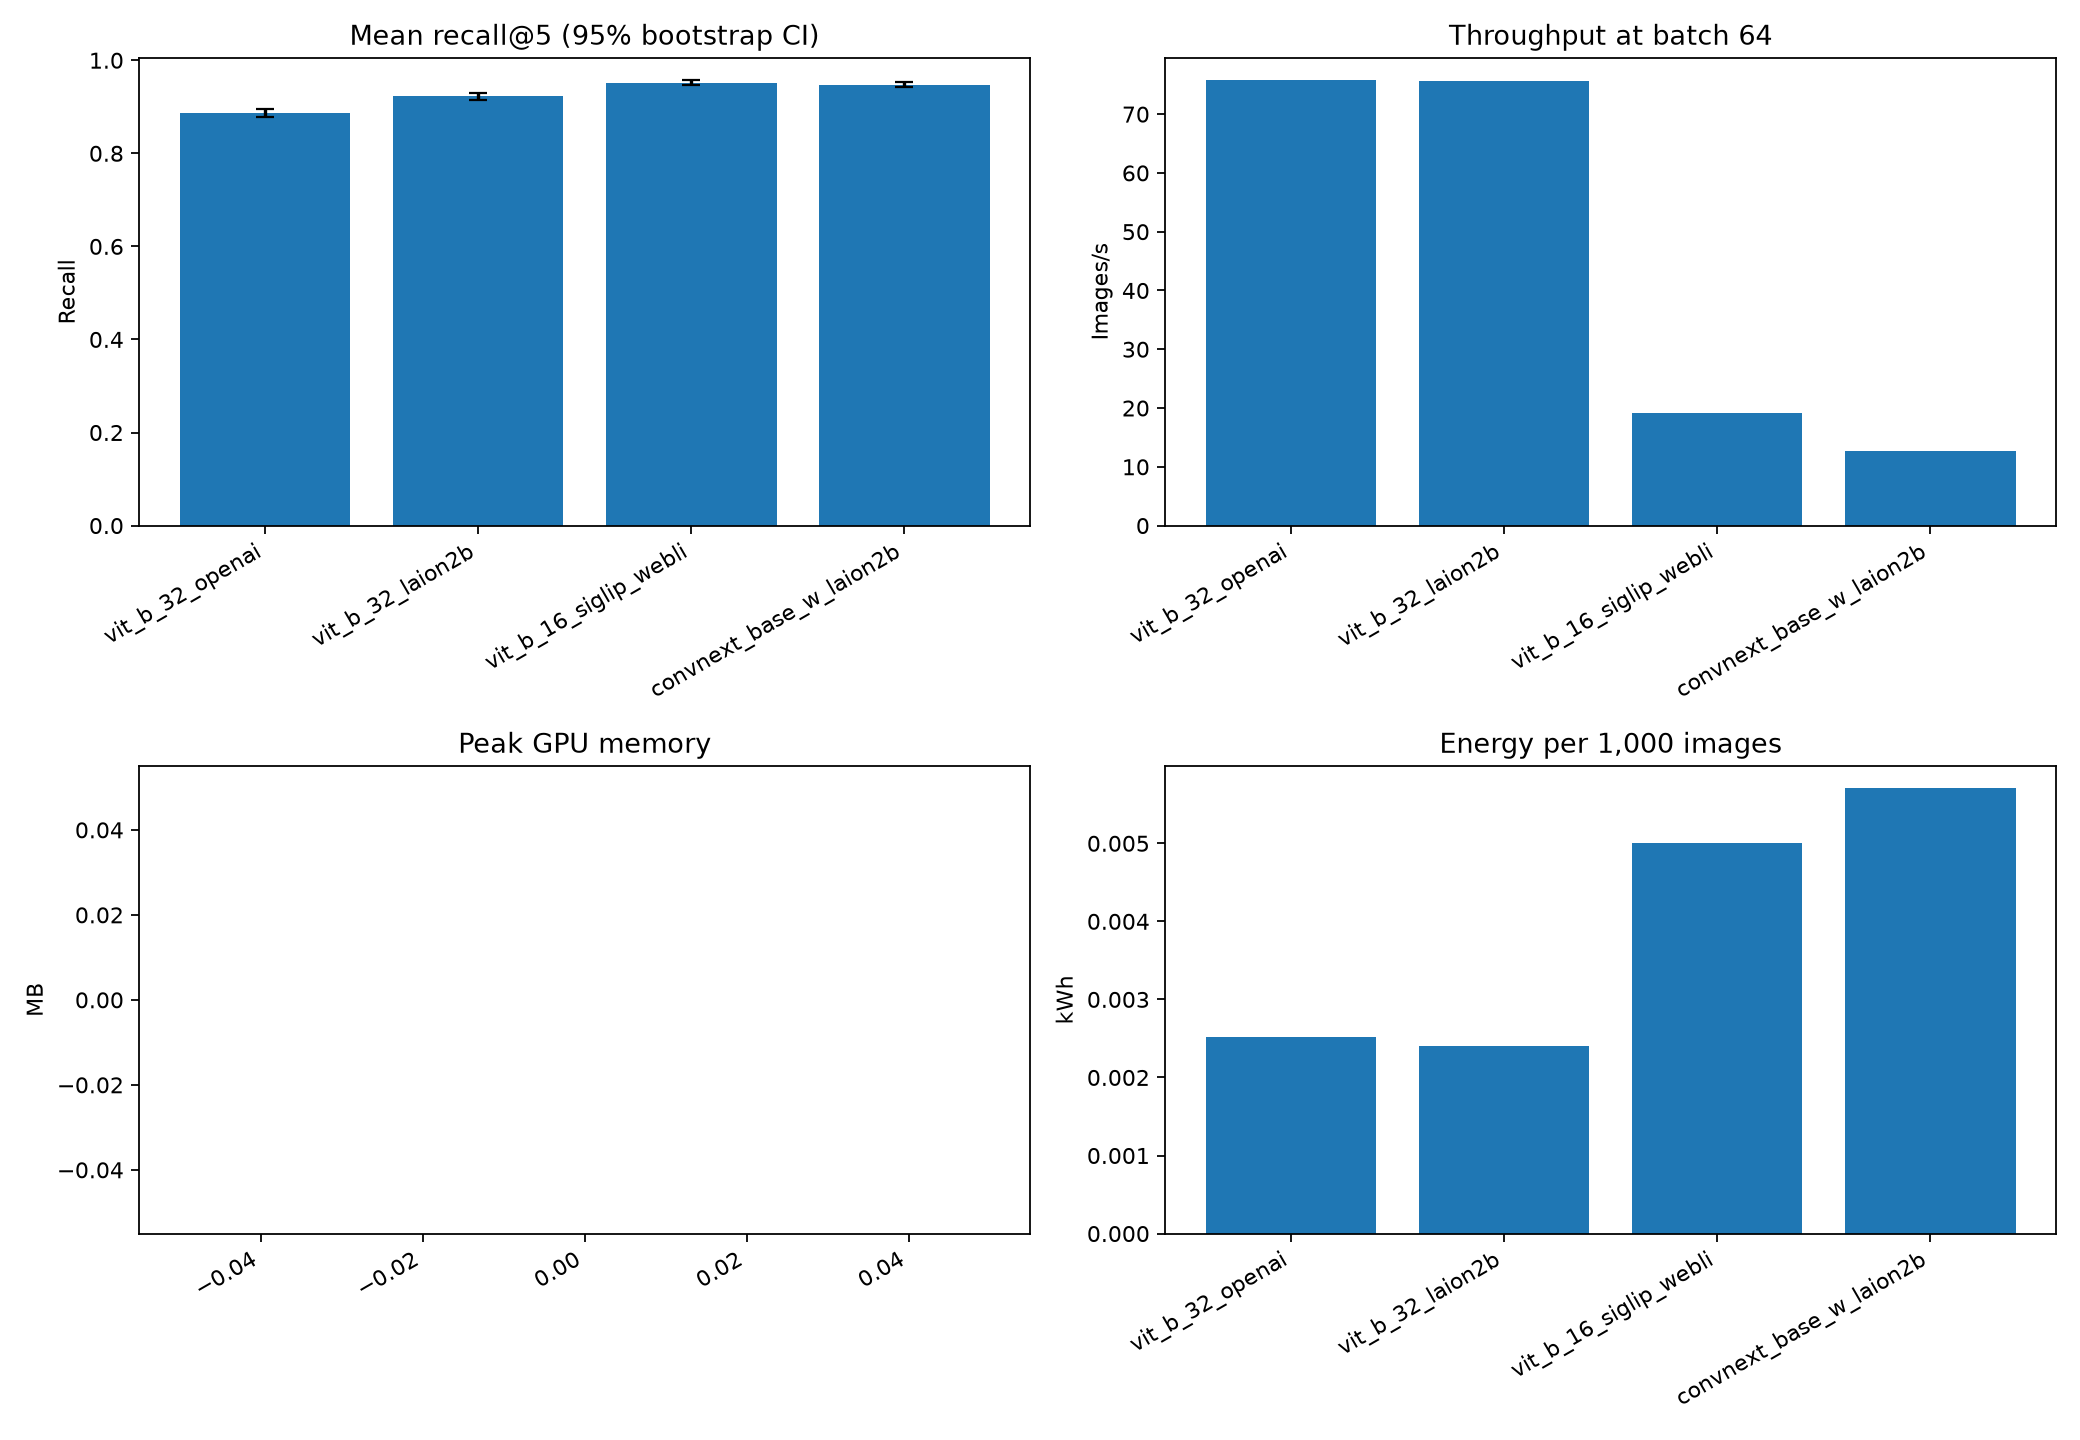
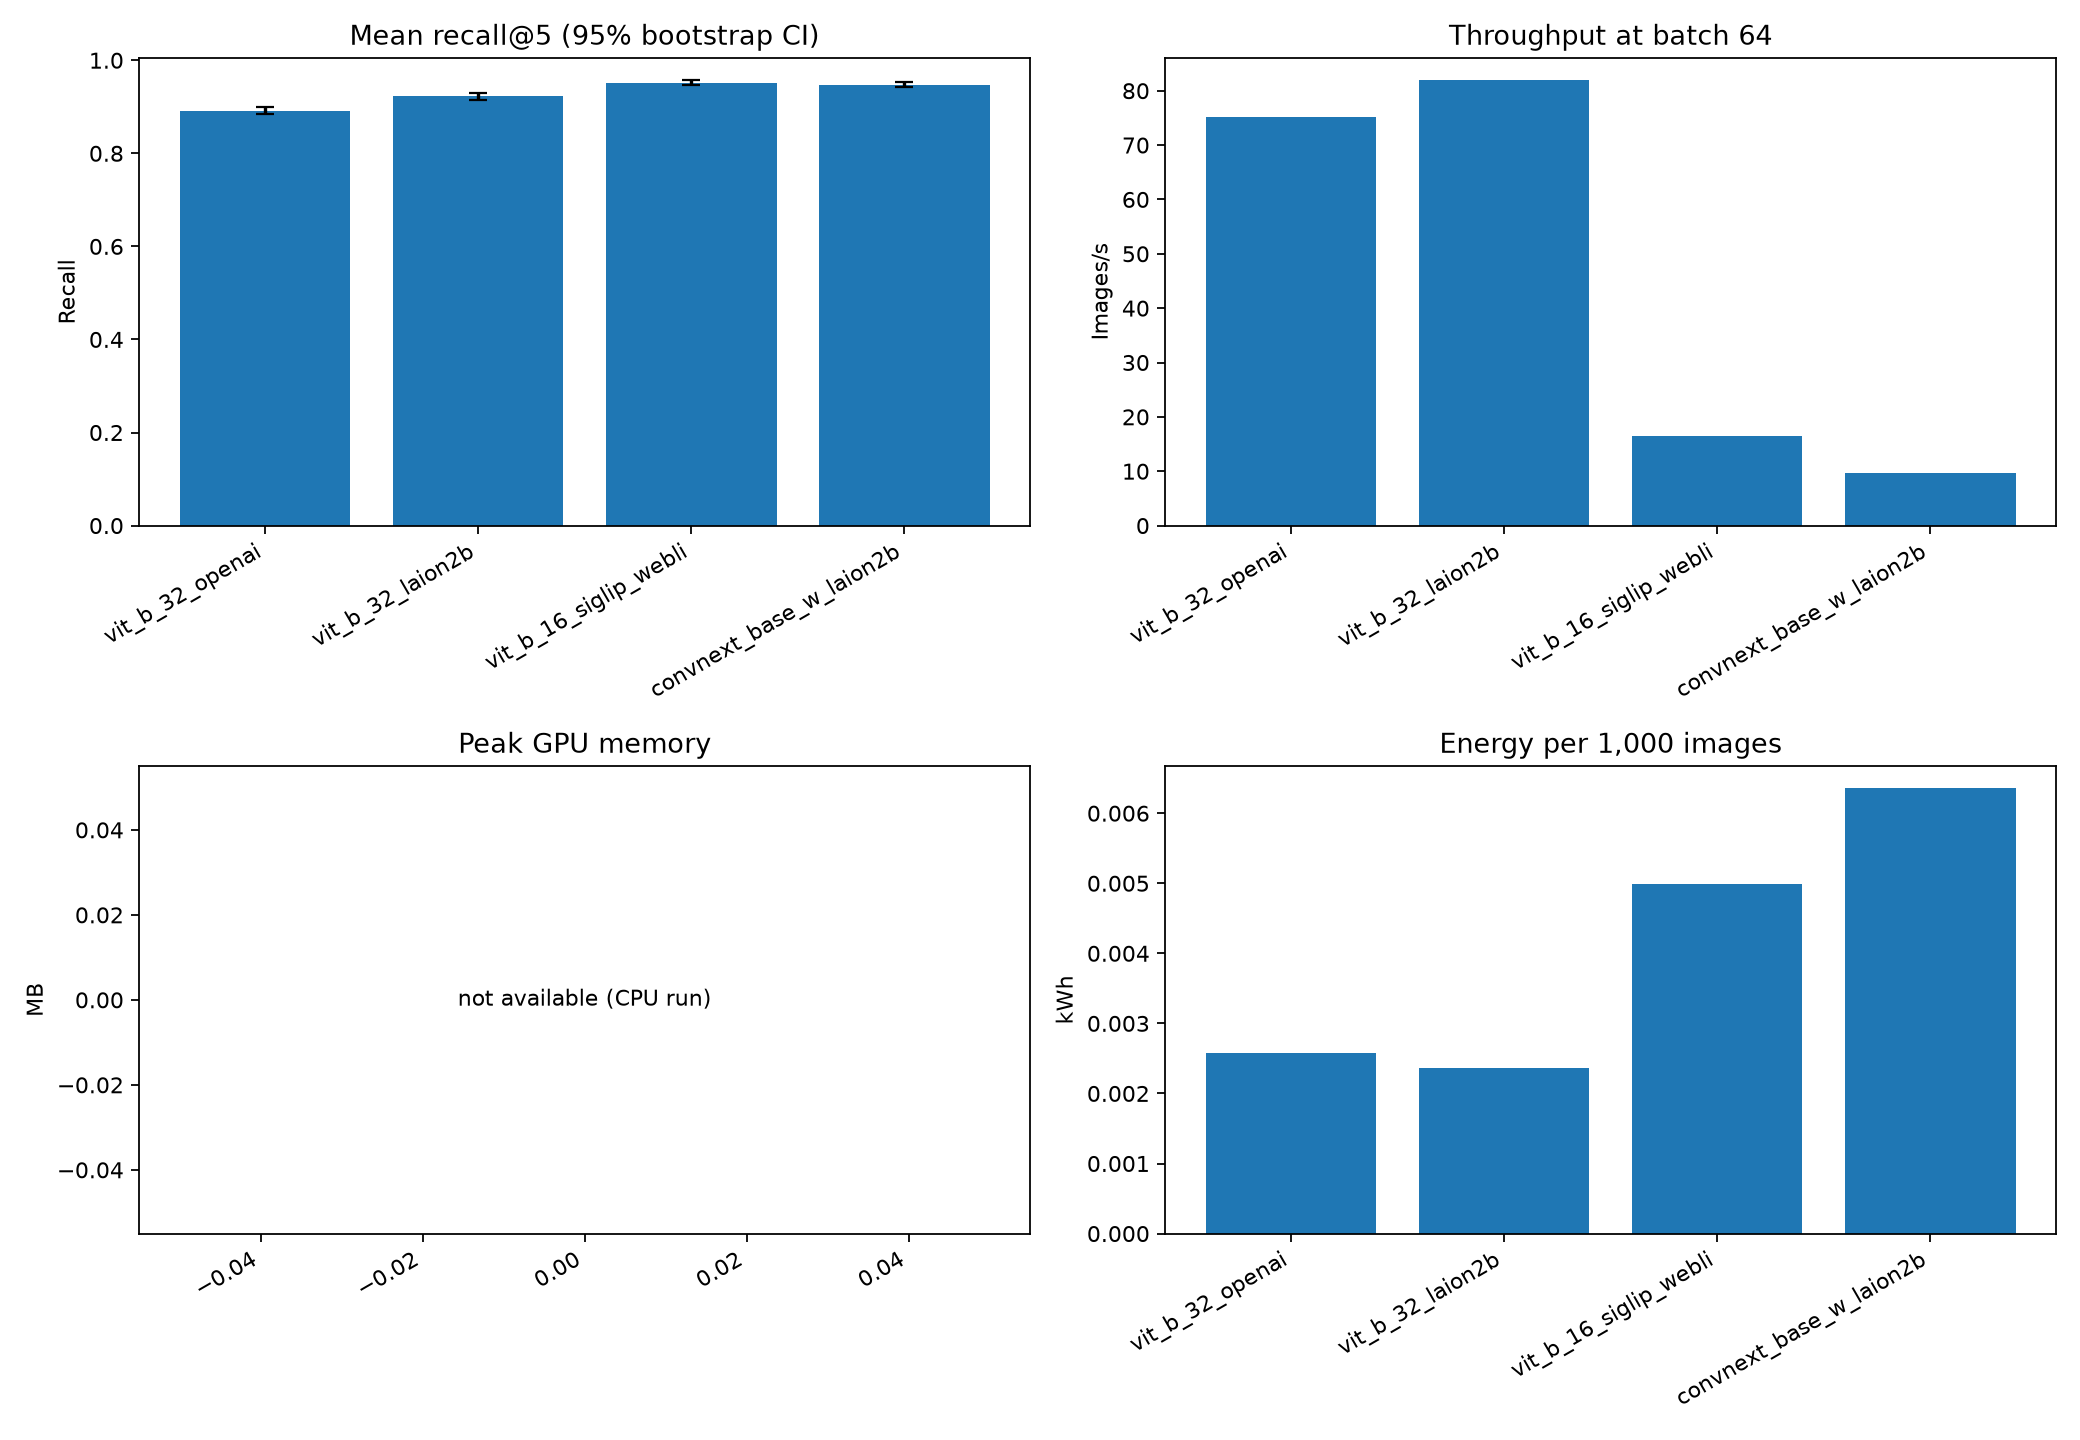
feat(metrics): spot-FIFO reference baseline and clipped confidence intervals

diff --git a/src/metrics/spot_experiments.py b/src/metrics/spot_experiments.py
@@ -19,6 +19,7 @@ from scheduler.policies import (
     market_cheapest,
     market_joint,
     ondemand_only_fifo,
+    spot_fifo,
     spot_only_joint_wait,
 )
 from simulator.simulator import Simulator
@@ -26,6 +27,7 @@ from simulator.simulator import Simulator
 
 POLICIES = {
     "ondemand_only_fifo": ondemand_only_fifo,
+    "spot_fifo": spot_fifo,
     "spot_only_joint_wait": spot_only_joint_wait,
     "market_joint": market_joint,
     "market_cheapest": market_cheapest,
@@ -60,12 +62,18 @@ SUMMARY_COLUMNS = [
     "wasted_carbon_g_mean",
     "wasted_carbon_g_ci_low",
     "wasted_carbon_g_ci_high",
-    "cost_vs_fifo_pct_mean",
-    "cost_vs_fifo_pct_ci_low",
-    "cost_vs_fifo_pct_ci_high",
-    "carbon_vs_fifo_pct_mean",
-    "carbon_vs_fifo_pct_ci_low",
-    "carbon_vs_fifo_pct_ci_high",
+    "cost_vs_ondemand_fifo_pct_mean",
+    "cost_vs_ondemand_fifo_pct_ci_low",
+    "cost_vs_ondemand_fifo_pct_ci_high",
+    "carbon_vs_ondemand_fifo_pct_mean",
+    "carbon_vs_ondemand_fifo_pct_ci_low",
+    "carbon_vs_ondemand_fifo_pct_ci_high",
+    "cost_vs_spot_fifo_pct_mean",
+    "cost_vs_spot_fifo_pct_ci_low",
+    "cost_vs_spot_fifo_pct_ci_high",
+    "carbon_vs_spot_fifo_pct_mean",
+    "carbon_vs_spot_fifo_pct_ci_low",
+    "carbon_vs_spot_fifo_pct_ci_high",
 ]
 
 
@@ -127,8 +135,12 @@ def _aggregate_runs(
 ) -> pd.DataFrame:
     rows = []
     for parameter in parameter_values:
-        baseline_by_seed = {
+        ondemand_baseline_by_seed = {
             seed: run_metrics[(parameter, seed, "ondemand_only_fifo")]
+            for seed in seeds
+        }
+        spot_baseline_by_seed = {
+            seed: run_metrics[(parameter, seed, "spot_fifo")]
             for seed in seeds
         }
         for policy_name in POLICIES:
@@ -139,20 +151,6 @@ def _aggregate_runs(
                 ]
                 for metric in METRICS
             }
-            cost_vs_fifo = [
-                _percent_change(
-                    run_metrics[(parameter, seed, policy_name)]["cost"],
-                    baseline_by_seed[seed]["cost"],
-                )
-                for seed in seeds
-            ]
-            carbon_vs_fifo = [
-                _percent_change(
-                    run_metrics[(parameter, seed, policy_name)]["carbon_g"],
-                    baseline_by_seed[seed]["carbon_g"],
-                )
-                for seed in seeds
-            ]
             row = {
                 "parameter": parameter,
                 "policy": policy_name,
@@ -161,18 +159,33 @@ def _aggregate_runs(
             for metric, values in samples.items():
                 mean = float(np.mean(values))
                 low, high = _mean_t_interval(values)
+                if metric == "deadline_success_pct":
+                    low = max(0.0, low)
+                    high = min(100.0, high)
+                elif metric == "mean_interruptions":
+                    low = max(0.0, low)
                 row[f"{metric}_mean"] = mean
                 row[f"{metric}_ci_low"] = low
                 row[f"{metric}_ci_high"] = high
-            for metric_name, values in (
-                ("cost_vs_fifo_pct", cost_vs_fifo),
-                ("carbon_vs_fifo_pct", carbon_vs_fifo),
+            for baseline_name, baseline_by_seed in (
+                ("ondemand_fifo", ondemand_baseline_by_seed),
+                ("spot_fifo", spot_baseline_by_seed),
             ):
-                mean = float(np.mean(values))
-                low, high = _mean_t_interval(values)
-                row[f"{metric_name}_mean"] = mean
-                row[f"{metric_name}_ci_low"] = low
-                row[f"{metric_name}_ci_high"] = high
+                for metric in ("cost", "carbon_g"):
+                    values = [
+                        _percent_change(
+                            run_metrics[(parameter, seed, policy_name)][metric],
+                            baseline_by_seed[seed][metric],
+                        )
+                        for seed in seeds
+                    ]
+                    metric_stem = "carbon" if metric == "carbon_g" else metric
+                    metric_name = f"{metric_stem}_vs_{baseline_name}_pct"
+                    mean = float(np.mean(values))
+                    low, high = _mean_t_interval(values)
+                    row[f"{metric_name}_mean"] = mean
+                    row[f"{metric_name}_ci_low"] = low
+                    row[f"{metric_name}_ci_high"] = high
             rows.append(row)
     return pd.DataFrame(rows, columns=SUMMARY_COLUMNS)
 
@@ -184,10 +197,21 @@ def _plot_sweep(
     title: str,
 ) -> None:
     colors = plt.get_cmap("tab10").colors
-    fig, axes = plt.subplots(1, 3, figsize=(16, 5.5))
+    fig, axes = plt.subplots(2, 3, figsize=(18, 9))
+    axes = list(axes.flat)
     plot_metrics = (
-        ("cost_vs_fifo_pct", "Cost vs FIFO (%)", "Change (%)"),
-        ("carbon_vs_fifo_pct", "Carbon vs FIFO (%)", "Change (%)"),
+        (
+            "cost_vs_ondemand_fifo_pct",
+            "Cost vs on-demand FIFO (%)",
+            "Change (%)",
+        ),
+        (
+            "carbon_vs_ondemand_fifo_pct",
+            "Carbon vs on-demand FIFO (%)",
+            "Change (%)",
+        ),
+        ("cost_vs_spot_fifo_pct", "Cost vs spot FIFO (%)", "Change (%)"),
+        ("carbon_vs_spot_fifo_pct", "Carbon vs spot FIFO (%)", "Change (%)"),
         ("deadline_success_pct", "Deadline success (%)", "Success (%)"),
     )
     for ax, (metric, heading, ylabel) in zip(axes, plot_metrics):
@@ -219,6 +243,7 @@ def _plot_sweep(
         ax.set_ylabel(ylabel)
         ax.grid(alpha=0.3)
 
+    axes[-1].set_visible(False)
     handles, labels = axes[0].get_legend_handles_labels()
     fig.legend(
         handles,

diff --git a/tests/test_sweeps.py b/tests/test_sweeps.py
@@ -84,7 +84,22 @@ def test_reduced_spot_experiments_write_expected_outputs(tmp_path):
     assert hazard_results.columns.tolist() == SPOT_SUMMARY_COLUMNS
     assert pd.read_csv(hazard_csv).columns.tolist() == SPOT_SUMMARY_COLUMNS
     assert hazard_results["parameter"].unique().tolist() == [0, 0.05]
-    assert hazard_results["policy"].nunique() == 4
+    assert hazard_results["policy"].nunique() == 5
+    assert hazard_results["deadline_success_pct_ci_low"].ge(0).all()
+    assert hazard_results["deadline_success_pct_ci_high"].le(100).all()
+    assert hazard_results["mean_interruptions_ci_low"].ge(0).all()
+    assert hazard_results["cost_vs_ondemand_fifo_pct_mean"].notna().all()
+    assert hazard_results["carbon_vs_ondemand_fifo_pct_mean"].notna().all()
+    assert hazard_results["cost_vs_spot_fifo_pct_mean"].notna().all()
+    assert hazard_results["carbon_vs_spot_fifo_pct_mean"].notna().all()
+    spot_fifo_rows = hazard_results[hazard_results["policy"].eq("spot_fifo")]
+    assert spot_fifo_rows["cost_vs_spot_fifo_pct_mean"].eq(0).all()
+    assert spot_fifo_rows["carbon_vs_spot_fifo_pct_mean"].eq(0).all()
+    ondemand_fifo_rows = hazard_results[
+        hazard_results["policy"].eq("ondemand_only_fifo")
+    ]
+    assert ondemand_fifo_rows["cost_vs_ondemand_fifo_pct_mean"].eq(0).all()
+    assert ondemand_fifo_rows["carbon_vs_ondemand_fifo_pct_mean"].eq(0).all()
 
     multiplier_csv = tmp_path / "spot-multiplier.csv"
     multiplier_png = tmp_path / "spot-multiplier.png"
@@ -102,4 +117,4 @@ def test_reduced_spot_experiments_write_expected_outputs(tmp_path):
     assert multiplier_results.columns.tolist() == SPOT_SUMMARY_COLUMNS
     assert pd.read_csv(multiplier_csv).columns.tolist() == SPOT_SUMMARY_COLUMNS
     assert multiplier_results["parameter"].unique().tolist() == [1.5, 2.5]
-    assert multiplier_results["policy"].nunique() == 4
+    assert multiplier_results["policy"].nunique() == 5

diff --git a/tests/test_market_policies.py b/tests/test_market_policies.py
@@ -7,6 +7,7 @@ from scheduler.policies import (
     market_cheapest,
     make_market_policy,
     ondemand_only_fifo,
+    spot_fifo,
     spot_only_joint_wait,
 )
 from simulator.simulator import Simulator
@@ -71,6 +72,19 @@ def test_zero_hazard_prefers_spot_unless_spot_is_excluded_by_buffer():
         "price_per_hr",
         "market",
     }
+
+
+def test_spot_fifo_uses_home_region_without_selecting_on_demand():
+    options = [
+        _candidate("region-cheap-dirty", "spot", 1.0),
+        _candidate("region-balanced", "spot", 2.0),
+        _candidate("region-balanced", "on_demand", 5.0),
+    ]
+
+    selected = spot_fifo(_job(), 0, options)
+
+    assert selected["region"] == "region-balanced"
+    assert selected["market"] == "spot"
 
 
 def test_simulator_passes_hazards_and_generates_both_market_candidates(tmp_path):

diff --git a/src/scheduler/policies.py b/src/scheduler/policies.py
@@ -464,3 +464,15 @@ def ondemand_only_fifo(job, current_hour: int, region_options):
 
 
 ondemand_only_fifo.__name__ = "ondemand_only_fifo"
+
+
+def spot_fifo(job, current_hour: int, region_options):
+    """FIFO baseline restricted to spot choices, without scheduling intelligence."""
+    spot_options = [
+        option for option in region_options
+        if option.get("market", "spot") == "spot"
+    ]
+    return fifo_ondemand_policy(job, current_hour, spot_options)
+
+
+spot_fifo.__name__ = "spot_fifo"

diff --git a/docs/model_selection.md b/docs/model_selection.md
@@ -4,14 +4,20 @@
 
 | Model | Mean recall@5 | Energy kWh / 1,000 images | Error |
 | --- | --- | --- | --- |
-| vit_b_32_openai | 0.886400 | 0.002516 |  |
-| vit_b_32_laion2b | 0.922700 | 0.002408 |  |
-| vit_b_16_siglip_webli | 0.951500 | 0.005004 |  |
-| convnext_base_w_laion2b | 0.947500 | 0.005703 |  |
+| vit_b_32_openai | 0.892000 | 0.002582 |  |
+| vit_b_32_laion2b | 0.922700 | 0.002358 |  |
+| vit_b_16_siglip_webli | 0.951500 | 0.004983 |  |
+| convnext_base_w_laion2b | 0.947500 | 0.006354 |  |
+
+## Run conditions
+
+- Device: cpu
+- Dataset: nlphuji/flickr_1k_test_image_text_retrieval (images: 1000)
+- Energy method: estimated_from_runtime (PUE: 1.0)
+- Energy is estimated from wall-clock runtime, not read from a power sensor; treat it as a runtime proxy.
 
 ## Selection rule
 
-Benchmark device: CPU. Energy method: estimated_from_runtime (CodeCarbon PUE=1.0).
 Choose the model with the highest mean recall@5. Models within 0.01 (one percentage point) of the best recall are tied; among those, choose the lowest energy per 1,000 images.
 
 **Winner:** vit_b_16_siglip_webli

diff --git a/README.md b/README.md
@@ -200,3 +200,19 @@ and `docs/forecast_error.csv`.
 - [Slack sweep figure](docs/slack_sweep.png)
 - [Time-shifting ablation figure](docs/ablation_timeshift.png)
 - [Forecast-error sweep figure](docs/forecast_error.png)
+
+## Results: spot market sweeps
+
+The spot hazard and on-demand multiplier sweeps use the checked-in synthetic
+carbon and price traces, not real observed market or grid data. Their CSVs
+report cost and carbon changes against both an on-demand FIFO baseline and a
+spot FIFO baseline. At the default 2.5x on-demand multiplier, the nominal
+price discount for spot is `1 - 1 / 2.5 = 60%`; therefore, savings versus
+on-demand FIFO are mostly the spot discount, not scheduling intelligence.
+Changes versus spot FIFO compare against a FIFO policy using spot options only,
+so they isolate the scheduler's added value (subject to interruptions and
+workload outcomes).
+
+Run `python src/metrics/spot_experiments.py` to regenerate
+`docs/spot_hazard_sweep.csv`, `docs/spot_hazard_sweep.png`,
+`docs/spot_multiplier_sweep.csv`, and `docs/spot_multiplier_sweep.png`.

diff --git a/scratch/model_selection.md b/scratch/model_selection.md
@@ -1,0 +1,24 @@
+# Model selection
+
+## Comparison
+
+| Model | Mean recall@5 | Energy kWh / 1,000 images | Error |
+| --- | --- | --- | --- |
+| vit_b_32_openai | 0.982000 | 0.005182 |  |
+| vit_b_32_laion2b | 0.989000 | 0.002501 |  |
+| vit_b_16_siglip_webli | 0.984000 | 0.006101 |  |
+| convnext_base_w_laion2b | 0.992000 | 0.006847 |  |
+
+## Run conditions
+
+- Device: cpu
+- Dataset: nlphuji/flickr_1k_test_image_text_retrieval (images: 100)
+- Energy method: estimated_from_runtime (PUE: 1.0)
+- Energy is estimated from wall-clock runtime, not read from a power sensor; treat it as a runtime proxy.
+
+## Selection rule
+
+Choose the model with the highest mean recall@5. Models within 0.01 (one percentage point) of the best recall are tied; among those, choose the lowest energy per 1,000 images.
+
+**Winner:** vit_b_32_laion2b
+**Runner-up:** vit_b_32_openai
